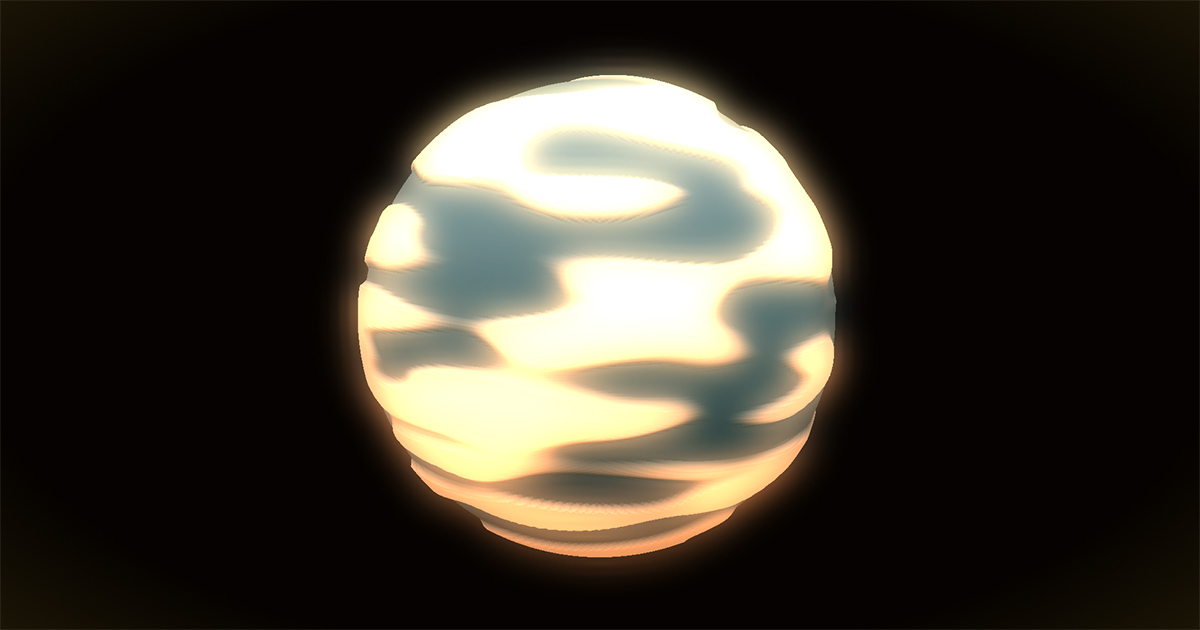
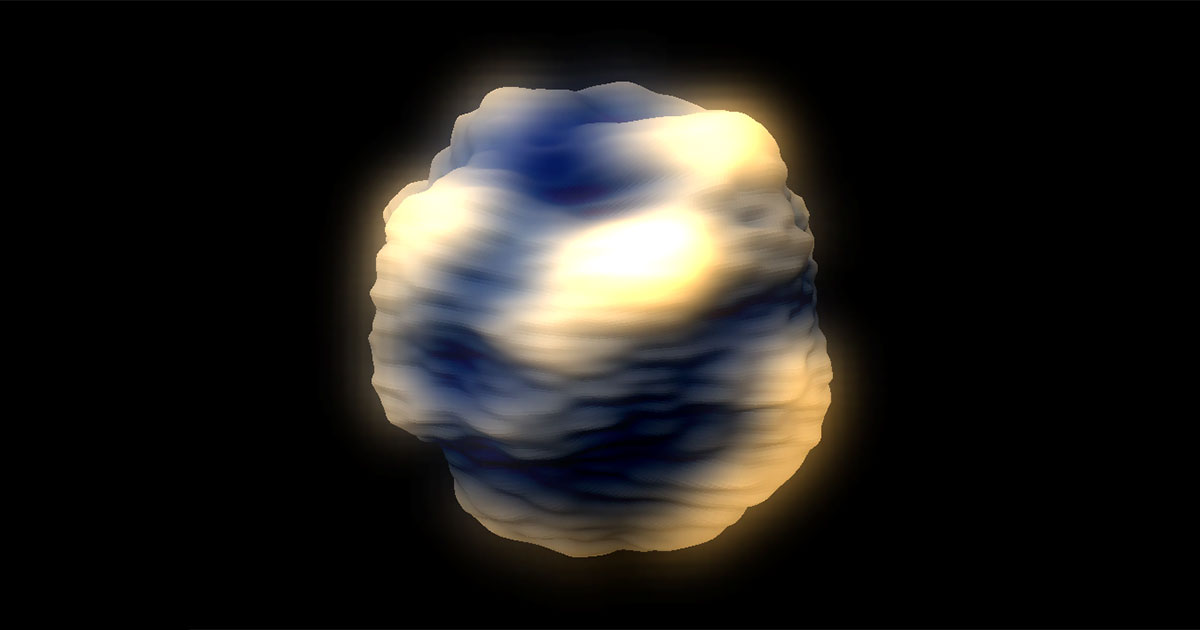
build.

diff --git a/docs/js/main.min.js b/docs/js/main.min.js
@@ -6,4 +6,4 @@
  * 
  * This header is generated by licensify (https://github.com/twada/licensify)
  */
-!function e(n,t,i){function r(a,u){if(!t[a]){if(!n[a]){var s="function"==typeof require&&require;if(!u&&s)return s(a,!0);if(o)return o(a,!0);var c=new Error("Cannot find module '"+a+"'");throw c.code="MODULE_NOT_FOUND",c}var l=t[a]={exports:{}};n[a][0].call(l.exports,function(e){var t=n[a][1][e];return r(t?t:e)},l,l.exports,e,n,t,i)}return t[a].exports}for(var o="function"==typeof require&&require,a=0;a<i.length;a++)r(i[a]);return r}({1:[function(e,n,t){"use strict";function i(e){return e&&e.__esModule?e:{"default":e}}var r=e("./modules/bloom/bloom.js"),o=i(r),a=e("./modules/sphere.js"),u=i(a),s=document.getElementById("canvas-webgl"),c=new THREE.WebGLRenderer({antialias:!0,canvas:s,alpha:!0}),l=new THREE.WebGLRenderTarget(window.innerWidth,window.innerHeight),v=new THREE.Scene,f=new THREE.PerspectiveCamera(45,window.innerWidth/window.innerHeight,1,1e4),d=new THREE.Clock,g=new Stats,m=new o["default"](l.texture),h=new u["default"],b=function(){s.width=window.innerWidth,s.height=window.innerHeight,f.aspect=window.innerWidth/window.innerHeight,f.updateProjectionMatrix(),c.setSize(window.innerWidth,window.innerHeight),l.setSize(window.innerWidth,window.innerHeight),m.resize()},x=function(){$(window).on("resize",function(){b()})},y=function(){var e=new dat.GUI,n=e.addFolder("bright"),t=e.addFolder("sphere"),i={blurCount:n.add(m,"blurCount",1,10).name("blur count").step(1),minBright:n.add(m.plane.bright,"minBright",0,1).name("min bright"),strength:n.add(m.plane.bloom,"strength",0,3).name("bright strength"),tone:n.add(m.plane.bloom,"tone",0,1).name("original tone"),colorHue:t.add(h,"hue",0,1).name("color hue")};i.minBright.onChange(function(e){m.plane.bright.uniforms.minBright.value=e}),i.strength.onChange(function(e){m.plane.bloom.uniforms.strength.value=e}),i.tone.onChange(function(e){m.plane.bloom.uniforms.tone.value=e}),i.colorHue.onChange(function(e){h.uniforms.hue.value=e}),n.open(),t.open()},w=function(){g.showPanel(0),document.body.appendChild(g.dom)},p=function(){h.render(d.getDelta()),c.render(v,f,l),m.render(c)},z=function P(){g.begin(),p(),g.end(),requestAnimationFrame(P)},E=function(){c.setSize(window.innerWidth,window.innerHeight),c.setClearColor(2236962,0),f.position.set(0,200,1e3),f.lookAt(new THREE.Vector3),v.add(h.mesh),x(),y(),w(),b(),z()};E(),setInterval(function(){},1)},{"./modules/bloom/bloom.js":2,"./modules/sphere.js":6}],2:[function(e,n,t){"use strict";function i(e){return e&&e.__esModule?e:{"default":e}}function r(e,n){if(!(e instanceof n))throw new TypeError("Cannot call a class as a function")}Object.defineProperty(t,"__esModule",{value:!0});var o=function(){function e(e,n){for(var t=0;t<n.length;t++){var i=n[t];i.enumerable=i.enumerable||!1,i.configurable=!0,"value"in i&&(i.writable=!0),Object.defineProperty(e,i.key,i)}}return function(n,t,i){return t&&e(n.prototype,t),i&&e(n,i),n}}(),a=e("./plane_bright.js"),u=i(a),s=e("./plane_blur.js"),c=i(s),l=e("./plane_bloom.js"),v=i(l),f=function(){function e(n){r(this,e),this.blurCount=3,this.renderTarget=[new THREE.WebGLRenderTarget(window.innerWidth/4,window.innerHeight/4),new THREE.WebGLRenderTarget(window.innerWidth/4,window.innerHeight/4)],this.scene={bright:new THREE.Scene,blurh:new THREE.Scene,blurv:new THREE.Scene,bloom:new THREE.Scene},this.camera=new THREE.PerspectiveCamera(45,1,1,2),this.plane={bright:new u["default"](n),blurh:new c["default"](this.renderTarget[0].texture,new THREE.Vector2(1,0)),blurv:new c["default"](this.renderTarget[1].texture,new THREE.Vector2(0,1)),bloom:new v["default"](n,this.renderTarget[0].texture)},this.init()}return o(e,[{key:"init",value:function(){this.scene.bright.add(this.plane.bright.mesh),this.scene.blurh.add(this.plane.blurh.mesh),this.scene.blurv.add(this.plane.blurv.mesh),this.scene.bloom.add(this.plane.bloom.mesh)}},{key:"render",value:function(e){e.render(this.scene.bright,this.camera,this.renderTarget[0]);for(var n=0;n<this.blurCount;n++)e.render(this.scene.blurh,this.camera,this.renderTarget[1]),e.render(this.scene.blurv,this.camera,this.renderTarget[0]);e.render(this.scene.bloom,this.camera)}},{key:"resize",value:function(){this.renderTarget[0].setSize(window.innerWidth/4,window.innerHeight/4),this.renderTarget[1].setSize(window.innerWidth/4,window.innerHeight/4),this.plane.blurh.resize(),this.plane.blurv.resize()}}]),e}();t["default"]=f},{"./plane_bloom.js":3,"./plane_blur.js":4,"./plane_bright.js":5}],3:[function(e,n,t){"use strict";function i(e,n){if(!(e instanceof n))throw new TypeError("Cannot call a class as a function")}Object.defineProperty(t,"__esModule",{value:!0});var r=function(){function e(e,n){for(var t=0;t<n.length;t++){var i=n[t];i.enumerable=i.enumerable||!1,i.configurable=!0,"value"in i&&(i.writable=!0),Object.defineProperty(e,i.key,i)}}return function(n,t,i){return t&&e(n.prototype,t),i&&e(n,i),n}}(),o=function(){function e(n,t){i(this,e),this.uniforms=null,this.tone=.7,this.strength=1.5,this.texBase=n,this.texBlur=t,this.mesh=this.createMesh()}return r(e,[{key:"createMesh",value:function(){return this.uniforms={tone:{type:"f",value:this.tone},strength:{type:"f",value:this.strength},texBase:{type:"t",value:this.texBase},texBlur:{type:"t",value:this.texBlur}},new THREE.Mesh(new THREE.PlaneBufferGeometry(2,2),new THREE.ShaderMaterial({uniforms:this.uniforms,vertexShader:"#define GLSLIFY 1\nvarying vec2 vUv;\n\nvoid main(void) {\n  vUv = uv;\n  gl_Position = vec4(position, 1.0);\n}\n",fragmentShader:"#define GLSLIFY 1\nuniform float tone;\nuniform float strength;\nuniform sampler2D texBase;\nuniform sampler2D texBlur;\n\nvarying vec2 vUv;\n\nvoid main(void) {\n  gl_FragColor = texture2D(texBase, vUv) * tone + texture2D(texBlur, vUv) * strength;\n}\n"}))}}]),e}();t["default"]=o},{}],4:[function(e,n,t){"use strict";function i(e,n){if(!(e instanceof n))throw new TypeError("Cannot call a class as a function")}Object.defineProperty(t,"__esModule",{value:!0});var r=function(){function e(e,n){for(var t=0;t<n.length;t++){var i=n[t];i.enumerable=i.enumerable||!1,i.configurable=!0,"value"in i&&(i.writable=!0),Object.defineProperty(e,i.key,i)}}return function(n,t,i){return t&&e(n.prototype,t),i&&e(n,i),n}}(),o=function(){function e(n,t){i(this,e),this.uniforms=null,this.texture=n,this.direction=t,this.mesh=this.createMesh()}return r(e,[{key:"createMesh",value:function(){return this.uniforms={resolution:{type:"v2",value:new THREE.Vector2(window.innerWidth/10,window.innerHeight/10)},direction:{type:"v2",value:this.direction},texture:{type:"t",value:this.texture}},new THREE.Mesh(new THREE.PlaneBufferGeometry(2,2),new THREE.ShaderMaterial({uniforms:this.uniforms,vertexShader:"#define GLSLIFY 1\nvarying vec2 vUv;\n\nvoid main(void) {\n  vUv = uv;\n  gl_Position = vec4(position, 1.0);\n}\n",fragmentShader:"#define GLSLIFY 1\nuniform vec2 resolution;\nuniform vec2 direction;\nuniform sampler2D texture;\nuniform float weight[10];\n\nvarying vec2 vUv;\n\nvec4 blur13(sampler2D image, vec2 uv, vec2 resolution, vec2 direction) {\n  vec4 color = vec4(0.0);\n  vec2 off1 = vec2(1.411764705882353) * direction;\n  vec2 off2 = vec2(3.2941176470588234) * direction;\n  vec2 off3 = vec2(5.176470588235294) * direction;\n  color += texture2D(image, uv) * 0.1964825501511404;\n  color += texture2D(image, uv + (off1 / resolution)) * 0.2969069646728344;\n  color += texture2D(image, uv - (off1 / resolution)) * 0.2969069646728344;\n  color += texture2D(image, uv + (off2 / resolution)) * 0.09447039785044732;\n  color += texture2D(image, uv - (off2 / resolution)) * 0.09447039785044732;\n  color += texture2D(image, uv + (off3 / resolution)) * 0.010381362401148057;\n  color += texture2D(image, uv - (off3 / resolution)) * 0.010381362401148057;\n  return color;\n}\n\nvec4 blur9(sampler2D image, vec2 uv, vec2 resolution, vec2 direction) {\n  vec4 color = vec4(0.0);\n  vec2 off1 = vec2(1.3846153846) * direction;\n  vec2 off2 = vec2(3.2307692308) * direction;\n  color += texture2D(image, uv) * 0.2270270270;\n  color += texture2D(image, uv + (off1 / resolution)) * 0.3162162162;\n  color += texture2D(image, uv - (off1 / resolution)) * 0.3162162162;\n  color += texture2D(image, uv + (off2 / resolution)) * 0.0702702703;\n  color += texture2D(image, uv - (off2 / resolution)) * 0.0702702703;\n  return color;\n}\n\nvec4 blur5(sampler2D image, vec2 uv, vec2 resolution, vec2 direction) {\n  vec4 color = vec4(0.0);\n  vec2 off1 = vec2(1.3333333333333333) * direction;\n  color += texture2D(image, uv) * 0.29411764705882354;\n  color += texture2D(image, uv + (off1 / resolution)) * 0.35294117647058826;\n  color += texture2D(image, uv - (off1 / resolution)) * 0.35294117647058826;\n  return color; \n}\n\nfloat gaussianPdf(in float x, in float sigma) {\n  return 0.39894 * exp( -0.5 * x * x/(sigma * sigma))/sigma;\n}\n\nvoid main(void) {\n  gl_FragColor = blur9(texture, vUv, resolution, direction);\n}\n"}))}},{key:"resize",value:function(){this.uniforms.resolution.value.set(window.innerWidth/10,window.innerHeight/10)}}]),e}();t["default"]=o},{}],5:[function(e,n,t){"use strict";function i(e,n){if(!(e instanceof n))throw new TypeError("Cannot call a class as a function")}Object.defineProperty(t,"__esModule",{value:!0});var r=function(){function e(e,n){for(var t=0;t<n.length;t++){var i=n[t];i.enumerable=i.enumerable||!1,i.configurable=!0,"value"in i&&(i.writable=!0),Object.defineProperty(e,i.key,i)}}return function(n,t,i){return t&&e(n.prototype,t),i&&e(n,i),n}}(),o=function(){function e(n){i(this,e),this.uniforms=null,this.minBright=.2,this.texture=n,this.mesh=this.createMesh()}return r(e,[{key:"createMesh",value:function(){return this.uniforms={minBright:{type:"f",value:this.minBright},texture:{type:"t",value:this.texture}},new THREE.Mesh(new THREE.PlaneBufferGeometry(2,2),new THREE.ShaderMaterial({uniforms:this.uniforms,vertexShader:"#define GLSLIFY 1\nvarying vec2 vUv;\n\nvoid main(void) {\n  vUv = uv;\n  gl_Position = vec4(position, 1.0);\n}\n",fragmentShader:"#define GLSLIFY 1\nuniform float minBright;\nuniform sampler2D texture;\n\nvarying vec2 vUv;\n\nvoid main(void) {\n  vec4 bright = max(vec4(0.0), (texture2D(texture, vUv) - minBright));\n  gl_FragColor = bright;\n}\n"}))}}]),e}();t["default"]=o},{}],6:[function(e,n,t){"use strict";function i(e,n){if(!(e instanceof n))throw new TypeError("Cannot call a class as a function")}Object.defineProperty(t,"__esModule",{value:!0});var r=function(){function e(e,n){for(var t=0;t<n.length;t++){var i=n[t];i.enumerable=i.enumerable||!1,i.configurable=!0,"value"in i&&(i.writable=!0),Object.defineProperty(e,i.key,i)}}return function(n,t,i){return t&&e(n.prototype,t),i&&e(n,i),n}}(),o=function(){function e(){i(this,e),this.time=3,this.hue=.1,this.uniforms=null,this.mesh=this.createMesh(),this.setEvent()}return r(e,[{key:"createMesh",value:function(){return this.uniforms={time:{type:"f",value:0},hue:{type:"f",value:this.hue},cursor:{type:"v2",value:new THREE.Vector2((-.5),1)}},new THREE.Mesh(new THREE.OctahedronGeometry(240,7),new THREE.ShaderMaterial({uniforms:this.uniforms,vertexShader:'#define GLSLIFY 1\nuniform float time;\nuniform float hue;\n\nvarying vec4 vColor;\nvarying vec4 vPosition;\nvarying mat4 vInvertMatrix;\n\nfloat inverse(float m) {\n  return 1.0 / m;\n}\n\nmat2 inverse(mat2 m) {\n  return mat2(m[1][1],-m[0][1],\n             -m[1][0], m[0][0]) / (m[0][0]*m[1][1] - m[0][1]*m[1][0]);\n}\n\nmat3 inverse(mat3 m) {\n  float a00 = m[0][0], a01 = m[0][1], a02 = m[0][2];\n  float a10 = m[1][0], a11 = m[1][1], a12 = m[1][2];\n  float a20 = m[2][0], a21 = m[2][1], a22 = m[2][2];\n\n  float b01 = a22 * a11 - a12 * a21;\n  float b11 = -a22 * a10 + a12 * a20;\n  float b21 = a21 * a10 - a11 * a20;\n\n  float det = a00 * b01 + a01 * b11 + a02 * b21;\n\n  return mat3(b01, (-a22 * a01 + a02 * a21), (a12 * a01 - a02 * a11),\n              b11, (a22 * a00 - a02 * a20), (-a12 * a00 + a02 * a10),\n              b21, (-a21 * a00 + a01 * a20), (a11 * a00 - a01 * a10)) / det;\n}\n\nmat4 inverse(mat4 m) {\n  float\n      a00 = m[0][0], a01 = m[0][1], a02 = m[0][2], a03 = m[0][3],\n      a10 = m[1][0], a11 = m[1][1], a12 = m[1][2], a13 = m[1][3],\n      a20 = m[2][0], a21 = m[2][1], a22 = m[2][2], a23 = m[2][3],\n      a30 = m[3][0], a31 = m[3][1], a32 = m[3][2], a33 = m[3][3],\n\n      b00 = a00 * a11 - a01 * a10,\n      b01 = a00 * a12 - a02 * a10,\n      b02 = a00 * a13 - a03 * a10,\n      b03 = a01 * a12 - a02 * a11,\n      b04 = a01 * a13 - a03 * a11,\n      b05 = a02 * a13 - a03 * a12,\n      b06 = a20 * a31 - a21 * a30,\n      b07 = a20 * a32 - a22 * a30,\n      b08 = a20 * a33 - a23 * a30,\n      b09 = a21 * a32 - a22 * a31,\n      b10 = a21 * a33 - a23 * a31,\n      b11 = a22 * a33 - a23 * a32,\n\n      det = b00 * b11 - b01 * b10 + b02 * b09 + b03 * b08 - b04 * b07 + b05 * b06;\n\n  return mat4(\n      a11 * b11 - a12 * b10 + a13 * b09,\n      a02 * b10 - a01 * b11 - a03 * b09,\n      a31 * b05 - a32 * b04 + a33 * b03,\n      a22 * b04 - a21 * b05 - a23 * b03,\n      a12 * b08 - a10 * b11 - a13 * b07,\n      a00 * b11 - a02 * b08 + a03 * b07,\n      a32 * b02 - a30 * b05 - a33 * b01,\n      a20 * b05 - a22 * b02 + a23 * b01,\n      a10 * b10 - a11 * b08 + a13 * b06,\n      a01 * b08 - a00 * b10 - a03 * b06,\n      a30 * b04 - a31 * b02 + a33 * b00,\n      a21 * b02 - a20 * b04 - a23 * b00,\n      a11 * b07 - a10 * b09 - a12 * b06,\n      a00 * b09 - a01 * b07 + a02 * b06,\n      a31 * b01 - a30 * b03 - a32 * b00,\n      a20 * b03 - a21 * b01 + a22 * b00) / det;\n}\n\n//\n// GLSL textureless classic 3D noise "cnoise",\n// with an RSL-style periodic variant "pnoise".\n// Author:  Stefan Gustavson (stefan.gustavson@liu.se)\n// Version: 2011-10-11\n//\n// Many thanks to Ian McEwan of Ashima Arts for the\n// ideas for permutation and gradient selection.\n//\n// Copyright (c) 2011 Stefan Gustavson. All rights reserved.\n// Distributed under the MIT license. See LICENSE file.\n// https://github.com/ashima/webgl-noise\n//\n\nvec3 mod289(vec3 x)\n{\n  return x - floor(x * (1.0 / 289.0)) * 289.0;\n}\n\nvec4 mod289(vec4 x)\n{\n  return x - floor(x * (1.0 / 289.0)) * 289.0;\n}\n\nvec4 permute(vec4 x)\n{\n  return mod289(((x*34.0)+1.0)*x);\n}\n\nvec4 taylorInvSqrt(vec4 r)\n{\n  return 1.79284291400159 - 0.85373472095314 * r;\n}\n\nvec3 fade(vec3 t) {\n  return t*t*t*(t*(t*6.0-15.0)+10.0);\n}\n\n// Classic Perlin noise\nfloat cnoise(vec3 P)\n{\n  vec3 Pi0 = floor(P); // Integer part for indexing\n  vec3 Pi1 = Pi0 + vec3(1.0); // Integer part + 1\n  Pi0 = mod289(Pi0);\n  Pi1 = mod289(Pi1);\n  vec3 Pf0 = fract(P); // Fractional part for interpolation\n  vec3 Pf1 = Pf0 - vec3(1.0); // Fractional part - 1.0\n  vec4 ix = vec4(Pi0.x, Pi1.x, Pi0.x, Pi1.x);\n  vec4 iy = vec4(Pi0.yy, Pi1.yy);\n  vec4 iz0 = Pi0.zzzz;\n  vec4 iz1 = Pi1.zzzz;\n\n  vec4 ixy = permute(permute(ix) + iy);\n  vec4 ixy0 = permute(ixy + iz0);\n  vec4 ixy1 = permute(ixy + iz1);\n\n  vec4 gx0 = ixy0 * (1.0 / 7.0);\n  vec4 gy0 = fract(floor(gx0) * (1.0 / 7.0)) - 0.5;\n  gx0 = fract(gx0);\n  vec4 gz0 = vec4(0.5) - abs(gx0) - abs(gy0);\n  vec4 sz0 = step(gz0, vec4(0.0));\n  gx0 -= sz0 * (step(0.0, gx0) - 0.5);\n  gy0 -= sz0 * (step(0.0, gy0) - 0.5);\n\n  vec4 gx1 = ixy1 * (1.0 / 7.0);\n  vec4 gy1 = fract(floor(gx1) * (1.0 / 7.0)) - 0.5;\n  gx1 = fract(gx1);\n  vec4 gz1 = vec4(0.5) - abs(gx1) - abs(gy1);\n  vec4 sz1 = step(gz1, vec4(0.0));\n  gx1 -= sz1 * (step(0.0, gx1) - 0.5);\n  gy1 -= sz1 * (step(0.0, gy1) - 0.5);\n\n  vec3 g000 = vec3(gx0.x,gy0.x,gz0.x);\n  vec3 g100 = vec3(gx0.y,gy0.y,gz0.y);\n  vec3 g010 = vec3(gx0.z,gy0.z,gz0.z);\n  vec3 g110 = vec3(gx0.w,gy0.w,gz0.w);\n  vec3 g001 = vec3(gx1.x,gy1.x,gz1.x);\n  vec3 g101 = vec3(gx1.y,gy1.y,gz1.y);\n  vec3 g011 = vec3(gx1.z,gy1.z,gz1.z);\n  vec3 g111 = vec3(gx1.w,gy1.w,gz1.w);\n\n  vec4 norm0 = taylorInvSqrt(vec4(dot(g000, g000), dot(g010, g010), dot(g100, g100), dot(g110, g110)));\n  g000 *= norm0.x;\n  g010 *= norm0.y;\n  g100 *= norm0.z;\n  g110 *= norm0.w;\n  vec4 norm1 = taylorInvSqrt(vec4(dot(g001, g001), dot(g011, g011), dot(g101, g101), dot(g111, g111)));\n  g001 *= norm1.x;\n  g011 *= norm1.y;\n  g101 *= norm1.z;\n  g111 *= norm1.w;\n\n  float n000 = dot(g000, Pf0);\n  float n100 = dot(g100, vec3(Pf1.x, Pf0.yz));\n  float n010 = dot(g010, vec3(Pf0.x, Pf1.y, Pf0.z));\n  float n110 = dot(g110, vec3(Pf1.xy, Pf0.z));\n  float n001 = dot(g001, vec3(Pf0.xy, Pf1.z));\n  float n101 = dot(g101, vec3(Pf1.x, Pf0.y, Pf1.z));\n  float n011 = dot(g011, vec3(Pf0.x, Pf1.yz));\n  float n111 = dot(g111, Pf1);\n\n  vec3 fade_xyz = fade(Pf0);\n  vec4 n_z = mix(vec4(n000, n100, n010, n110), vec4(n001, n101, n011, n111), fade_xyz.z);\n  vec2 n_yz = mix(n_z.xy, n_z.zw, fade_xyz.y);\n  float n_xyz = mix(n_yz.x, n_yz.y, fade_xyz.x);\n  return 2.2 * n_xyz;\n}\n\nvec3 hsv2rgb(vec3 c){\n  vec4 K = vec4(1.0, 2.0 / 3.0, 1.0 / 3.0, 3.0);\n  vec3 p = abs(fract(c.xxx + K.xyz) * 6.0 - K.www);\n  return c.z * mix(K.xxx, clamp(p - K.xxx, 0.0, 1.0), c.y);\n}\n\nvoid main(void) {\n  float noise1 = cnoise(\n      vec3(\n        position.x * 0.006 + time * 0.5,\n        position.y * 0.012,\n        position.z * 0.006\n      )\n    );\n  float noise2 = cnoise(\n      vec3(\n        position.x * 0.02,\n        position.y * 0.06,\n        position.z * 0.02 + time\n      )\n    );\n  vec4 noisePosition = vec4(position + (normalize(position) * (50.0 * noise1 + 10.0 * noise2)), 1.0);\n  vColor = vec4(hsv2rgb(vec3(hue, 0.65, 0.0 + (length(noisePosition) - 240.0) / 60.0)), 1.0);\n  vPosition = noisePosition;\n  vInvertMatrix = inverse(modelMatrix);\n  gl_Position = projectionMatrix * modelViewMatrix * noisePosition;\n}\n',fragmentShader:"#define GLSLIFY 1\nuniform vec2 cursor;\n\nvarying vec4 vColor;\nvarying vec4 vPosition;\nvarying mat4 vInvertMatrix;\n\nvoid main(void) {\n  vec3 normal = normalize(cross(dFdx(vPosition.xyz), dFdy(vPosition.xyz)));\n  vec3 inv_light = normalize(vInvertMatrix * vec4(vec3(cursor.x, cursor.y, 1.0 - abs(cursor.x)), 0.0)).xyz;\n  float diff = (dot(normal, inv_light) + 1.0) / 2.0;\n  vec3 light = vec3(0.4) * diff;\n  vec4 color = vColor;\n  gl_FragColor = color + vec4(light, 1.0);\n}\n",transparent:!0,side:THREE.DoubleSide,shading:THREE.FlatShading}))}},{key:"setEvent",value:function(){var e=this;document.getElementById("canvas-webgl").addEventListener("click",function(n){e.uniforms.cursor.value.set(n.clientX/window.innerWidth*2-1,(window.innerHeight-n.clientY)/window.innerHeight*2-1)})}},{key:"render",value:function(e){this.uniforms.time.value+=e*this.time}}]),e}();t["default"]=o},{}]},{},[1]);
+!function e(n,t,i){function r(a,u){if(!t[a]){if(!n[a]){var s="function"==typeof require&&require;if(!u&&s)return s(a,!0);if(o)return o(a,!0);var c=new Error("Cannot find module '"+a+"'");throw c.code="MODULE_NOT_FOUND",c}var l=t[a]={exports:{}};n[a][0].call(l.exports,function(e){var t=n[a][1][e];return r(t?t:e)},l,l.exports,e,n,t,i)}return t[a].exports}for(var o="function"==typeof require&&require,a=0;a<i.length;a++)r(i[a]);return r}({1:[function(e,n,t){"use strict";function i(e){return e&&e.__esModule?e:{"default":e}}var r=e("./modules/bloom/bloom.js"),o=i(r),a=e("./modules/sphere.js"),u=i(a),s=document.getElementById("canvas-webgl"),c=new THREE.WebGLRenderer({antialias:!0,canvas:s,alpha:!0}),l=new THREE.WebGLRenderTarget(window.innerWidth,window.innerHeight),v=new THREE.Scene,f=new THREE.PerspectiveCamera(45,window.innerWidth/window.innerHeight,1,1e4),d=new THREE.Clock,g=new Stats,m=new o["default"](l.texture),h=new u["default"],b=function(){s.width=window.innerWidth,s.height=window.innerHeight,f.aspect=window.innerWidth/window.innerHeight,f.updateProjectionMatrix(),c.setSize(window.innerWidth,window.innerHeight),l.setSize(window.innerWidth,window.innerHeight),m.resize()},x=function(){$(window).on("resize",function(){b()})},y=function(){var e=new dat.GUI,n=e.addFolder("bright"),t=e.addFolder("sphere"),i={blurCount:n.add(m,"blurCount",1,10).name("blur count").step(1),minBright:n.add(m.plane.bright,"minBright",0,1).name("min bright"),strength:n.add(m.plane.bloom,"strength",0,5).name("bright strength"),tone:n.add(m.plane.bloom,"tone",0,1).name("original tone"),colorHue:t.add(h,"hue",0,1).name("color hue")};i.minBright.onChange(function(e){m.plane.bright.uniforms.minBright.value=e}),i.strength.onChange(function(e){m.plane.bloom.uniforms.strength.value=e}),i.tone.onChange(function(e){m.plane.bloom.uniforms.tone.value=e}),i.colorHue.onChange(function(e){h.uniforms.hue.value=e}),n.open(),t.open()},w=function(){g.showPanel(0),document.body.appendChild(g.dom)},p=function(){h.render(d.getDelta()),c.render(v,f,l),m.render(c)},z=function P(){g.begin(),p(),g.end(),requestAnimationFrame(P)},E=function(){c.setSize(window.innerWidth,window.innerHeight),c.setClearColor(2236962,0),f.position.set(0,200,1e3),f.lookAt(new THREE.Vector3),v.add(h.mesh),x(),y(),w(),b(),z()};E(),setInterval(function(){},1)},{"./modules/bloom/bloom.js":2,"./modules/sphere.js":6}],2:[function(e,n,t){"use strict";function i(e){return e&&e.__esModule?e:{"default":e}}function r(e,n){if(!(e instanceof n))throw new TypeError("Cannot call a class as a function")}Object.defineProperty(t,"__esModule",{value:!0});var o=function(){function e(e,n){for(var t=0;t<n.length;t++){var i=n[t];i.enumerable=i.enumerable||!1,i.configurable=!0,"value"in i&&(i.writable=!0),Object.defineProperty(e,i.key,i)}}return function(n,t,i){return t&&e(n.prototype,t),i&&e(n,i),n}}(),a=e("./plane_bright.js"),u=i(a),s=e("./plane_blur.js"),c=i(s),l=e("./plane_bloom.js"),v=i(l),f=function(){function e(n){r(this,e),this.blurCount=3,this.renderTarget=[new THREE.WebGLRenderTarget(window.innerWidth/4,window.innerHeight/4),new THREE.WebGLRenderTarget(window.innerWidth/4,window.innerHeight/4)],this.scene={bright:new THREE.Scene,blurh:new THREE.Scene,blurv:new THREE.Scene,bloom:new THREE.Scene},this.camera=new THREE.PerspectiveCamera(45,1,1,2),this.plane={bright:new u["default"](n),blurh:new c["default"](this.renderTarget[0].texture,new THREE.Vector2(1,0)),blurv:new c["default"](this.renderTarget[1].texture,new THREE.Vector2(0,1)),bloom:new v["default"](n,this.renderTarget[0].texture)},this.init()}return o(e,[{key:"init",value:function(){this.scene.bright.add(this.plane.bright.mesh),this.scene.blurh.add(this.plane.blurh.mesh),this.scene.blurv.add(this.plane.blurv.mesh),this.scene.bloom.add(this.plane.bloom.mesh)}},{key:"render",value:function(e){e.render(this.scene.bright,this.camera,this.renderTarget[0]);for(var n=0;n<this.blurCount;n++)e.render(this.scene.blurh,this.camera,this.renderTarget[1]),e.render(this.scene.blurv,this.camera,this.renderTarget[0]);e.render(this.scene.bloom,this.camera)}},{key:"resize",value:function(){this.renderTarget[0].setSize(window.innerWidth/4,window.innerHeight/4),this.renderTarget[1].setSize(window.innerWidth/4,window.innerHeight/4),this.plane.blurh.resize(),this.plane.blurv.resize()}}]),e}();t["default"]=f},{"./plane_bloom.js":3,"./plane_blur.js":4,"./plane_bright.js":5}],3:[function(e,n,t){"use strict";function i(e,n){if(!(e instanceof n))throw new TypeError("Cannot call a class as a function")}Object.defineProperty(t,"__esModule",{value:!0});var r=function(){function e(e,n){for(var t=0;t<n.length;t++){var i=n[t];i.enumerable=i.enumerable||!1,i.configurable=!0,"value"in i&&(i.writable=!0),Object.defineProperty(e,i.key,i)}}return function(n,t,i){return t&&e(n.prototype,t),i&&e(n,i),n}}(),o=function(){function e(n,t){i(this,e),this.uniforms=null,this.tone=.7,this.strength=3,this.texBase=n,this.texBlur=t,this.mesh=this.createMesh()}return r(e,[{key:"createMesh",value:function(){return this.uniforms={tone:{type:"f",value:this.tone},strength:{type:"f",value:this.strength},texBase:{type:"t",value:this.texBase},texBlur:{type:"t",value:this.texBlur}},new THREE.Mesh(new THREE.PlaneBufferGeometry(2,2),new THREE.ShaderMaterial({uniforms:this.uniforms,vertexShader:"#define GLSLIFY 1\nvarying vec2 vUv;\n\nvoid main(void) {\n  vUv = uv;\n  gl_Position = vec4(position, 1.0);\n}\n",fragmentShader:"#define GLSLIFY 1\nuniform float tone;\nuniform float strength;\nuniform sampler2D texBase;\nuniform sampler2D texBlur;\n\nvarying vec2 vUv;\n\nvoid main(void) {\n  gl_FragColor = texture2D(texBase, vUv) * tone + texture2D(texBlur, vUv) * strength;\n}\n"}))}}]),e}();t["default"]=o},{}],4:[function(e,n,t){"use strict";function i(e,n){if(!(e instanceof n))throw new TypeError("Cannot call a class as a function")}Object.defineProperty(t,"__esModule",{value:!0});var r=function(){function e(e,n){for(var t=0;t<n.length;t++){var i=n[t];i.enumerable=i.enumerable||!1,i.configurable=!0,"value"in i&&(i.writable=!0),Object.defineProperty(e,i.key,i)}}return function(n,t,i){return t&&e(n.prototype,t),i&&e(n,i),n}}(),o=function(){function e(n,t){i(this,e),this.uniforms=null,this.texture=n,this.direction=t,this.mesh=this.createMesh()}return r(e,[{key:"createMesh",value:function(){return this.uniforms={resolution:{type:"v2",value:new THREE.Vector2(window.innerWidth/10,window.innerHeight/10)},direction:{type:"v2",value:this.direction},texture:{type:"t",value:this.texture}},new THREE.Mesh(new THREE.PlaneBufferGeometry(2,2),new THREE.ShaderMaterial({uniforms:this.uniforms,vertexShader:"#define GLSLIFY 1\nvarying vec2 vUv;\n\nvoid main(void) {\n  vUv = uv;\n  gl_Position = vec4(position, 1.0);\n}\n",fragmentShader:"#define GLSLIFY 1\nuniform vec2 resolution;\nuniform vec2 direction;\nuniform sampler2D texture;\nuniform float weight[10];\n\nvarying vec2 vUv;\n\nvec4 blur13(sampler2D image, vec2 uv, vec2 resolution, vec2 direction) {\n  vec4 color = vec4(0.0);\n  vec2 off1 = vec2(1.411764705882353) * direction;\n  vec2 off2 = vec2(3.2941176470588234) * direction;\n  vec2 off3 = vec2(5.176470588235294) * direction;\n  color += texture2D(image, uv) * 0.1964825501511404;\n  color += texture2D(image, uv + (off1 / resolution)) * 0.2969069646728344;\n  color += texture2D(image, uv - (off1 / resolution)) * 0.2969069646728344;\n  color += texture2D(image, uv + (off2 / resolution)) * 0.09447039785044732;\n  color += texture2D(image, uv - (off2 / resolution)) * 0.09447039785044732;\n  color += texture2D(image, uv + (off3 / resolution)) * 0.010381362401148057;\n  color += texture2D(image, uv - (off3 / resolution)) * 0.010381362401148057;\n  return color;\n}\n\nvec4 blur9(sampler2D image, vec2 uv, vec2 resolution, vec2 direction) {\n  vec4 color = vec4(0.0);\n  vec2 off1 = vec2(1.3846153846) * direction;\n  vec2 off2 = vec2(3.2307692308) * direction;\n  color += texture2D(image, uv) * 0.2270270270;\n  color += texture2D(image, uv + (off1 / resolution)) * 0.3162162162;\n  color += texture2D(image, uv - (off1 / resolution)) * 0.3162162162;\n  color += texture2D(image, uv + (off2 / resolution)) * 0.0702702703;\n  color += texture2D(image, uv - (off2 / resolution)) * 0.0702702703;\n  return color;\n}\n\nvec4 blur5(sampler2D image, vec2 uv, vec2 resolution, vec2 direction) {\n  vec4 color = vec4(0.0);\n  vec2 off1 = vec2(1.3333333333333333) * direction;\n  color += texture2D(image, uv) * 0.29411764705882354;\n  color += texture2D(image, uv + (off1 / resolution)) * 0.35294117647058826;\n  color += texture2D(image, uv - (off1 / resolution)) * 0.35294117647058826;\n  return color; \n}\n\nfloat gaussianPdf(in float x, in float sigma) {\n  return 0.39894 * exp( -0.5 * x * x/(sigma * sigma))/sigma;\n}\n\nvoid main(void) {\n  gl_FragColor = blur9(texture, vUv, resolution, direction);\n}\n"}))}},{key:"resize",value:function(){this.uniforms.resolution.value.set(window.innerWidth/10,window.innerHeight/10)}}]),e}();t["default"]=o},{}],5:[function(e,n,t){"use strict";function i(e,n){if(!(e instanceof n))throw new TypeError("Cannot call a class as a function")}Object.defineProperty(t,"__esModule",{value:!0});var r=function(){function e(e,n){for(var t=0;t<n.length;t++){var i=n[t];i.enumerable=i.enumerable||!1,i.configurable=!0,"value"in i&&(i.writable=!0),Object.defineProperty(e,i.key,i)}}return function(n,t,i){return t&&e(n.prototype,t),i&&e(n,i),n}}(),o=function(){function e(n){i(this,e),this.uniforms=null,this.minBright=.2,this.texture=n,this.mesh=this.createMesh()}return r(e,[{key:"createMesh",value:function(){return this.uniforms={minBright:{type:"f",value:this.minBright},texture:{type:"t",value:this.texture}},new THREE.Mesh(new THREE.PlaneBufferGeometry(2,2),new THREE.ShaderMaterial({uniforms:this.uniforms,vertexShader:"#define GLSLIFY 1\nvarying vec2 vUv;\n\nvoid main(void) {\n  vUv = uv;\n  gl_Position = vec4(position, 1.0);\n}\n",fragmentShader:"#define GLSLIFY 1\nuniform float minBright;\nuniform sampler2D texture;\n\nvarying vec2 vUv;\n\nvoid main(void) {\n  vec4 bright = max(vec4(0.0), (texture2D(texture, vUv) - minBright));\n  gl_FragColor = bright;\n}\n"}))}}]),e}();t["default"]=o},{}],6:[function(e,n,t){"use strict";function i(e,n){if(!(e instanceof n))throw new TypeError("Cannot call a class as a function")}Object.defineProperty(t,"__esModule",{value:!0});var r=function(){function e(e,n){for(var t=0;t<n.length;t++){var i=n[t];i.enumerable=i.enumerable||!1,i.configurable=!0,"value"in i&&(i.writable=!0),Object.defineProperty(e,i.key,i)}}return function(n,t,i){return t&&e(n.prototype,t),i&&e(n,i),n}}(),o=function(){function e(){i(this,e),this.time=3,this.hue=.1,this.uniforms=null,this.mesh=this.createMesh(),this.setEvent()}return r(e,[{key:"createMesh",value:function(){return this.uniforms={time:{type:"f",value:0},hue:{type:"f",value:this.hue},cursor:{type:"v2",value:new THREE.Vector2((-.5),1)}},new THREE.Mesh(new THREE.OctahedronGeometry(240,7),new THREE.ShaderMaterial({uniforms:this.uniforms,vertexShader:'#define GLSLIFY 1\nuniform float time;\nuniform float hue;\n\nvarying vec4 vColor;\nvarying vec4 vPosition;\nvarying mat4 vInvertMatrix;\n\nfloat inverse(float m) {\n  return 1.0 / m;\n}\n\nmat2 inverse(mat2 m) {\n  return mat2(m[1][1],-m[0][1],\n             -m[1][0], m[0][0]) / (m[0][0]*m[1][1] - m[0][1]*m[1][0]);\n}\n\nmat3 inverse(mat3 m) {\n  float a00 = m[0][0], a01 = m[0][1], a02 = m[0][2];\n  float a10 = m[1][0], a11 = m[1][1], a12 = m[1][2];\n  float a20 = m[2][0], a21 = m[2][1], a22 = m[2][2];\n\n  float b01 = a22 * a11 - a12 * a21;\n  float b11 = -a22 * a10 + a12 * a20;\n  float b21 = a21 * a10 - a11 * a20;\n\n  float det = a00 * b01 + a01 * b11 + a02 * b21;\n\n  return mat3(b01, (-a22 * a01 + a02 * a21), (a12 * a01 - a02 * a11),\n              b11, (a22 * a00 - a02 * a20), (-a12 * a00 + a02 * a10),\n              b21, (-a21 * a00 + a01 * a20), (a11 * a00 - a01 * a10)) / det;\n}\n\nmat4 inverse(mat4 m) {\n  float\n      a00 = m[0][0], a01 = m[0][1], a02 = m[0][2], a03 = m[0][3],\n      a10 = m[1][0], a11 = m[1][1], a12 = m[1][2], a13 = m[1][3],\n      a20 = m[2][0], a21 = m[2][1], a22 = m[2][2], a23 = m[2][3],\n      a30 = m[3][0], a31 = m[3][1], a32 = m[3][2], a33 = m[3][3],\n\n      b00 = a00 * a11 - a01 * a10,\n      b01 = a00 * a12 - a02 * a10,\n      b02 = a00 * a13 - a03 * a10,\n      b03 = a01 * a12 - a02 * a11,\n      b04 = a01 * a13 - a03 * a11,\n      b05 = a02 * a13 - a03 * a12,\n      b06 = a20 * a31 - a21 * a30,\n      b07 = a20 * a32 - a22 * a30,\n      b08 = a20 * a33 - a23 * a30,\n      b09 = a21 * a32 - a22 * a31,\n      b10 = a21 * a33 - a23 * a31,\n      b11 = a22 * a33 - a23 * a32,\n\n      det = b00 * b11 - b01 * b10 + b02 * b09 + b03 * b08 - b04 * b07 + b05 * b06;\n\n  return mat4(\n      a11 * b11 - a12 * b10 + a13 * b09,\n      a02 * b10 - a01 * b11 - a03 * b09,\n      a31 * b05 - a32 * b04 + a33 * b03,\n      a22 * b04 - a21 * b05 - a23 * b03,\n      a12 * b08 - a10 * b11 - a13 * b07,\n      a00 * b11 - a02 * b08 + a03 * b07,\n      a32 * b02 - a30 * b05 - a33 * b01,\n      a20 * b05 - a22 * b02 + a23 * b01,\n      a10 * b10 - a11 * b08 + a13 * b06,\n      a01 * b08 - a00 * b10 - a03 * b06,\n      a30 * b04 - a31 * b02 + a33 * b00,\n      a21 * b02 - a20 * b04 - a23 * b00,\n      a11 * b07 - a10 * b09 - a12 * b06,\n      a00 * b09 - a01 * b07 + a02 * b06,\n      a31 * b01 - a30 * b03 - a32 * b00,\n      a20 * b03 - a21 * b01 + a22 * b00) / det;\n}\n\n//\n// GLSL textureless classic 3D noise "cnoise",\n// with an RSL-style periodic variant "pnoise".\n// Author:  Stefan Gustavson (stefan.gustavson@liu.se)\n// Version: 2011-10-11\n//\n// Many thanks to Ian McEwan of Ashima Arts for the\n// ideas for permutation and gradient selection.\n//\n// Copyright (c) 2011 Stefan Gustavson. All rights reserved.\n// Distributed under the MIT license. See LICENSE file.\n// https://github.com/ashima/webgl-noise\n//\n\nvec3 mod289(vec3 x)\n{\n  return x - floor(x * (1.0 / 289.0)) * 289.0;\n}\n\nvec4 mod289(vec4 x)\n{\n  return x - floor(x * (1.0 / 289.0)) * 289.0;\n}\n\nvec4 permute(vec4 x)\n{\n  return mod289(((x*34.0)+1.0)*x);\n}\n\nvec4 taylorInvSqrt(vec4 r)\n{\n  return 1.79284291400159 - 0.85373472095314 * r;\n}\n\nvec3 fade(vec3 t) {\n  return t*t*t*(t*(t*6.0-15.0)+10.0);\n}\n\n// Classic Perlin noise\nfloat cnoise(vec3 P)\n{\n  vec3 Pi0 = floor(P); // Integer part for indexing\n  vec3 Pi1 = Pi0 + vec3(1.0); // Integer part + 1\n  Pi0 = mod289(Pi0);\n  Pi1 = mod289(Pi1);\n  vec3 Pf0 = fract(P); // Fractional part for interpolation\n  vec3 Pf1 = Pf0 - vec3(1.0); // Fractional part - 1.0\n  vec4 ix = vec4(Pi0.x, Pi1.x, Pi0.x, Pi1.x);\n  vec4 iy = vec4(Pi0.yy, Pi1.yy);\n  vec4 iz0 = Pi0.zzzz;\n  vec4 iz1 = Pi1.zzzz;\n\n  vec4 ixy = permute(permute(ix) + iy);\n  vec4 ixy0 = permute(ixy + iz0);\n  vec4 ixy1 = permute(ixy + iz1);\n\n  vec4 gx0 = ixy0 * (1.0 / 7.0);\n  vec4 gy0 = fract(floor(gx0) * (1.0 / 7.0)) - 0.5;\n  gx0 = fract(gx0);\n  vec4 gz0 = vec4(0.5) - abs(gx0) - abs(gy0);\n  vec4 sz0 = step(gz0, vec4(0.0));\n  gx0 -= sz0 * (step(0.0, gx0) - 0.5);\n  gy0 -= sz0 * (step(0.0, gy0) - 0.5);\n\n  vec4 gx1 = ixy1 * (1.0 / 7.0);\n  vec4 gy1 = fract(floor(gx1) * (1.0 / 7.0)) - 0.5;\n  gx1 = fract(gx1);\n  vec4 gz1 = vec4(0.5) - abs(gx1) - abs(gy1);\n  vec4 sz1 = step(gz1, vec4(0.0));\n  gx1 -= sz1 * (step(0.0, gx1) - 0.5);\n  gy1 -= sz1 * (step(0.0, gy1) - 0.5);\n\n  vec3 g000 = vec3(gx0.x,gy0.x,gz0.x);\n  vec3 g100 = vec3(gx0.y,gy0.y,gz0.y);\n  vec3 g010 = vec3(gx0.z,gy0.z,gz0.z);\n  vec3 g110 = vec3(gx0.w,gy0.w,gz0.w);\n  vec3 g001 = vec3(gx1.x,gy1.x,gz1.x);\n  vec3 g101 = vec3(gx1.y,gy1.y,gz1.y);\n  vec3 g011 = vec3(gx1.z,gy1.z,gz1.z);\n  vec3 g111 = vec3(gx1.w,gy1.w,gz1.w);\n\n  vec4 norm0 = taylorInvSqrt(vec4(dot(g000, g000), dot(g010, g010), dot(g100, g100), dot(g110, g110)));\n  g000 *= norm0.x;\n  g010 *= norm0.y;\n  g100 *= norm0.z;\n  g110 *= norm0.w;\n  vec4 norm1 = taylorInvSqrt(vec4(dot(g001, g001), dot(g011, g011), dot(g101, g101), dot(g111, g111)));\n  g001 *= norm1.x;\n  g011 *= norm1.y;\n  g101 *= norm1.z;\n  g111 *= norm1.w;\n\n  float n000 = dot(g000, Pf0);\n  float n100 = dot(g100, vec3(Pf1.x, Pf0.yz));\n  float n010 = dot(g010, vec3(Pf0.x, Pf1.y, Pf0.z));\n  float n110 = dot(g110, vec3(Pf1.xy, Pf0.z));\n  float n001 = dot(g001, vec3(Pf0.xy, Pf1.z));\n  float n101 = dot(g101, vec3(Pf1.x, Pf0.y, Pf1.z));\n  float n011 = dot(g011, vec3(Pf0.x, Pf1.yz));\n  float n111 = dot(g111, Pf1);\n\n  vec3 fade_xyz = fade(Pf0);\n  vec4 n_z = mix(vec4(n000, n100, n010, n110), vec4(n001, n101, n011, n111), fade_xyz.z);\n  vec2 n_yz = mix(n_z.xy, n_z.zw, fade_xyz.y);\n  float n_xyz = mix(n_yz.x, n_yz.y, fade_xyz.x);\n  return 2.2 * n_xyz;\n}\n\nvec3 hsv2rgb(vec3 c){\n  vec4 K = vec4(1.0, 2.0 / 3.0, 1.0 / 3.0, 3.0);\n  vec3 p = abs(fract(c.xxx + K.xyz) * 6.0 - K.www);\n  return c.z * mix(K.xxx, clamp(p - K.xxx, 0.0, 1.0), c.y);\n}\n\nvoid main(void) {\n  float noise1 = cnoise(\n      vec3(\n        position.x * 0.006 + time * 0.5,\n        position.y * 0.012,\n        position.z * 0.006\n      )\n    );\n  float noise2 = cnoise(\n      vec3(\n        position.x * 0.02,\n        position.y * 0.06,\n        position.z * 0.02 + time\n      )\n    );\n  vec4 noisePosition = vec4(position + (normalize(position) * (50.0 * noise1 + 10.0 * noise2)), 1.0);\n  vColor = vec4(hsv2rgb(vec3(hue, 0.65, 0.0 + (length(noisePosition) - 240.0) / 60.0)), 1.0);\n  vPosition = noisePosition;\n  vInvertMatrix = inverse(modelMatrix);\n  gl_Position = projectionMatrix * modelViewMatrix * noisePosition;\n}\n',fragmentShader:"#define GLSLIFY 1\nuniform vec2 cursor;\n\nvarying vec4 vColor;\nvarying vec4 vPosition;\nvarying mat4 vInvertMatrix;\n\nvoid main(void) {\n  vec3 normal = normalize(cross(dFdx(vPosition.xyz), dFdy(vPosition.xyz)));\n  vec3 inv_light = normalize(vInvertMatrix * vec4(vec3(cursor.x, cursor.y, 1.0 - abs(cursor.x)), 0.0)).xyz;\n  float diff = (dot(normal, inv_light) + 1.0) / 2.0;\n  vec3 light = vec3(0.4) * diff;\n  vec4 color = vColor;\n  gl_FragColor = color + vec4(light, 1.0);\n}\n",transparent:!0,side:THREE.DoubleSide,shading:THREE.FlatShading}))}},{key:"setEvent",value:function(){var e=this;document.getElementById("canvas-webgl").addEventListener("click",function(n){e.uniforms.cursor.value.set(n.clientX/window.innerWidth*2-1,(window.innerHeight-n.clientY)/window.innerHeight*2-1)})}},{key:"render",value:function(e){this.uniforms.time.value+=e*this.time}}]),e}();t["default"]=o},{}]},{},[1]);
